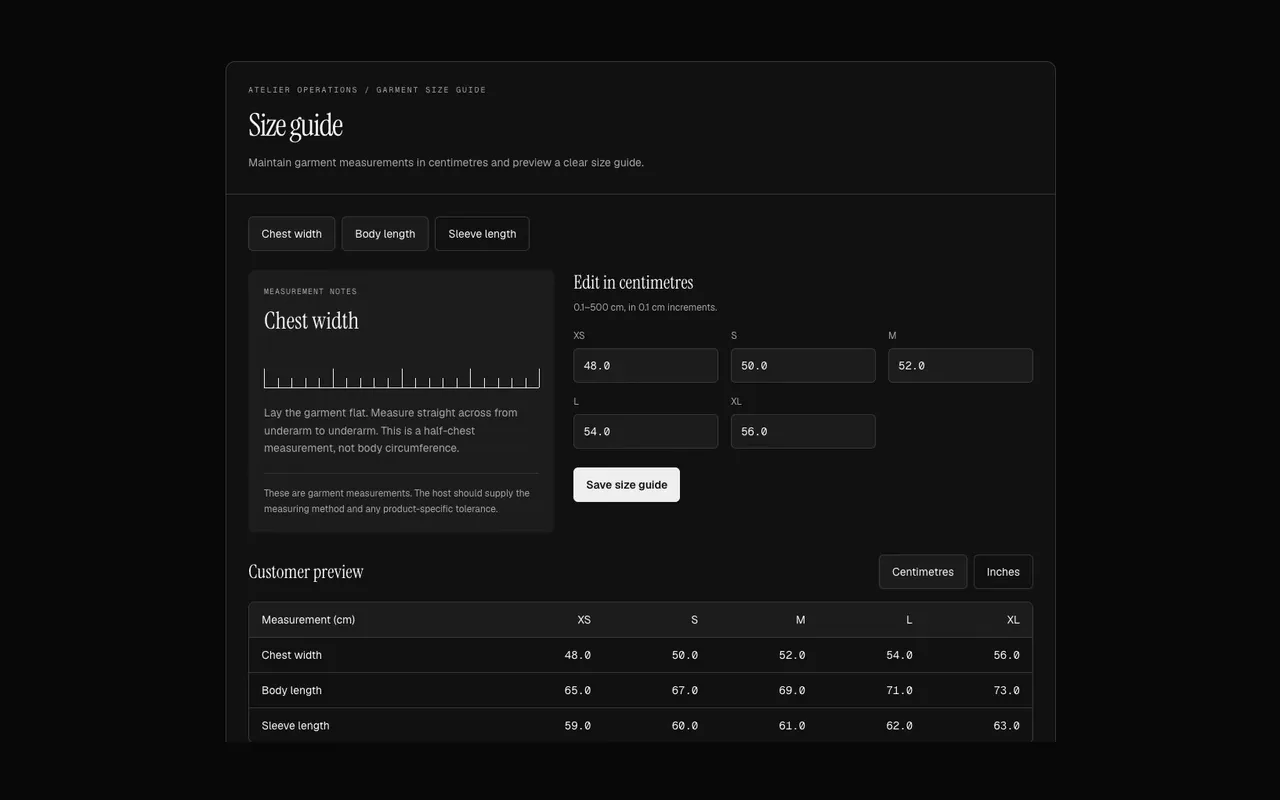
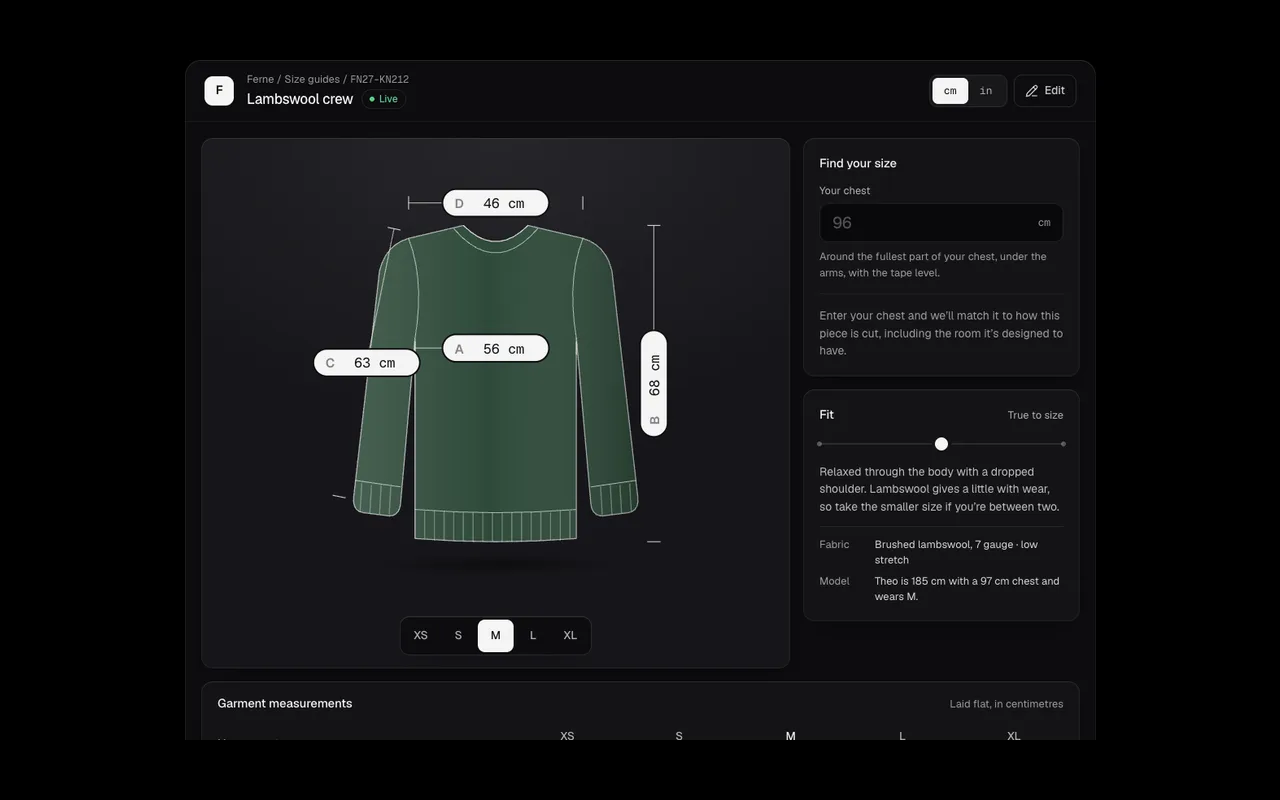
feat(fashion-size-guide): publish measurement guidance and regression coverage

diff --git a/docs/review/HANDOFF_TASKS.md b/docs/review/HANDOFF_TASKS.md
@@ -48,6 +48,8 @@ and how to know it's done. Pick any of them up independently. Background, briefs
 
 - Task 6: finished Merchandising Dashboard and removed its parked patch. The weekly sell-through curve, stock ledger and markdown candidates form one proposal workflow. Failed proposals retain selections, and collection switching is disabled while sending. Its source-fixture regression/demo, controls, both-theme accessibility, responsive/state/entrance captures, poster and Fashion Workspace regression pass. Its new film remains in task 1.
 
+- Task 6: finished Size Guide and removed its parked patch. Graded garment annotations, unit switching, fit recommendations and editable measurements share one publish workflow. Narrow measurement tables scroll inside their own labelled region; failed publishes retain edits. Its source-fixture regression/demo, controls, native palettes, both-theme accessibility, responsive/state/entrance captures and poster pass. Its new film remains in task 1.
+
 ## Ground rules (read first)
 
 - Two repos. Public: `richawo/Design-components-for-AI-agents` (this one). Pro: `richawo/Design-for-AI`, private, cloned
@@ -65,7 +67,7 @@ and how to know it's done. Pick any of them up independently. Background, briefs
 - Browser checks: `node scripts/check-component.mjs <slug> --base=http://localhost:3100 --no-video --keep-going`
   (screenshots at 1440/768/390 and every control flip; read the screenshots it writes to `test-results/check/<slug>/`).
 
-## 1. Re-record demo videos (138 components)
+## 1. Re-record demo videos (139 components)
 
 Every rebuilt component's poster is current but its catalogue film (`public/previews/<slug>.mp4`) still shows the old
 version. Record them one at a time on an otherwise idle machine; the recorder rejects frame stalls under load.
@@ -116,7 +118,7 @@ Slugs:
 `media-trim-timeline`, `navigation-context-rail`, `navigation-lens-dock`, `navigation-stacked-tabs`
 `pixel-halftone-image`, `portfolio-project-reel`, `pricing-seat-simulator`, `pricing-usage-calculator`
 `social-proof-case-ledger`, `text-number-odometer`, `text-optical-weight`, `text-outline-fill`
-`text-path-typesetter`, `finance-budget-variance`, `finance-cashflow-dashboard`, `fashion-preorder-planner`, `fashion-collection-line-plan`, `fashion-merchandising-dashboard`
+`text-path-typesetter`, `finance-budget-variance`, `finance-cashflow-dashboard`, `fashion-preorder-planner`, `fashion-collection-line-plan`, `fashion-merchandising-dashboard`, `fashion-size-guide`
 
 ## 2. Retake 6 stale posters
 
@@ -225,7 +227,7 @@ see `tests/browser/mobile-accessibility-probe.mjs` for a native example.
 `pricing-usage-calculator`, `social-proof-case-ledger`, `text-number-odometer`, `text-optical-weight`
 `text-outline-fill`, `text-path-typesetter`
 
-## 6. Finish parked rebuilds (four remaining)
+## 6. Finish parked rebuilds (three remaining)
 
 Rebuilt but not shipped; the live components are still the old versions. Each lives in the Pro repo at
 `registry/pro/_wip/<slug>/` with `component.patch`, `guide.json` and sometimes `probe.mjs`. To resume one:
@@ -244,7 +246,7 @@ run the checks, and delete `_wip/<slug>` in the Pro commit that ships it.
 | fashion-preorder-planner | Completed 17 October: source-fixture regression, demo, controls, both-theme accessibility and responsive/state/entrance captures pass; prompts and poster are current. |
 | fashion-collection-line-plan | Completed 17 October: source-fixture regression/demo, both-theme accessibility and responsive/state/entrance captures pass; prompts/poster current; Fashion Workspace draft/save regression passes. |
 | fashion-merchandising-dashboard | Completed 17 October: source-fixture regression/demo, both-theme accessibility and responsive/state/entrance captures pass; prompts/poster current; Fashion Workspace regression passes. |
-| fashion-size-guide | prompts; the probe's last remount (missing values, empty data) unverified; native-themes probe; poster |
+| fashion-size-guide | Completed 17 October: source-fixture regression/demo including missing and empty grades, native palettes, both-theme accessibility and responsive/state/entrance captures pass; prompts/poster current. |
 | scroll-image-curtain | `pro-scroll-probe` "follows native scroll" not yet passing; visual check; poster |
 | scroll-horizontal-showcase | visual check; live demo check; poster (scroll probe passed) |
 | scroll-expanding-mosaic | poster captured blank; scroll probe's change and reversal checks not passing on final code |

diff --git a/docs/review/STATUS.md b/docs/review/STATUS.md
@@ -1,6 +1,6 @@
 # Review status
 
-154 components are rebuilt (or, for a few, polished), verified and committed. For each: whether its demo video
+155 components are rebuilt (or, for a few, polished), verified and committed. For each: whether its demo video
 needs re-recording, whether its poster is current, and the state of its browser regression probe.
 
 - **Video**: `new` means `public/previews/<slug>.mp4` still shows the old version. Re-record serially on a quiet machine:
@@ -153,7 +153,7 @@ needs re-recording, whether its poster is current, and the state of its browser 
 | `finance-reconciliation` | new | current | pro-industry and demo probes pass on Next; exact currency and matched selection fixed |
 | `finance-scenario-forecast` | new | current | rewritten, passes on suite runner with source fixtures; Next route check pending |
 
-## Fashion suite (7)
+## Fashion suite (8)
 
 | Slug | Video | Poster | Probe |
 | --- | --- | --- | --- |
@@ -163,6 +163,7 @@ needs re-recording, whether its poster is current, and the state of its browser 
 | `fashion-preorder-planner` | new | current | source-fixture regression, demo, accessibility and responsive/state/entrance captures pass |
 | `fashion-collection-line-plan` | new | current | source-fixture regression/demo, both-theme accessibility, responsive/state/entrance captures and workspace draft/save checks pass |
 | `fashion-merchandising-dashboard` | new | current | source-fixture regression/demo, both-theme accessibility, responsive/state/entrance captures and workspace checks pass |
+| `fashion-size-guide` | new | current | source-fixture regression/demo, native palettes, both-theme accessibility and responsive/state/entrance captures pass |
 | `fashion-wholesale-order` | new | current | rewritten, passes |
 
 ## Commerce suite (4)
